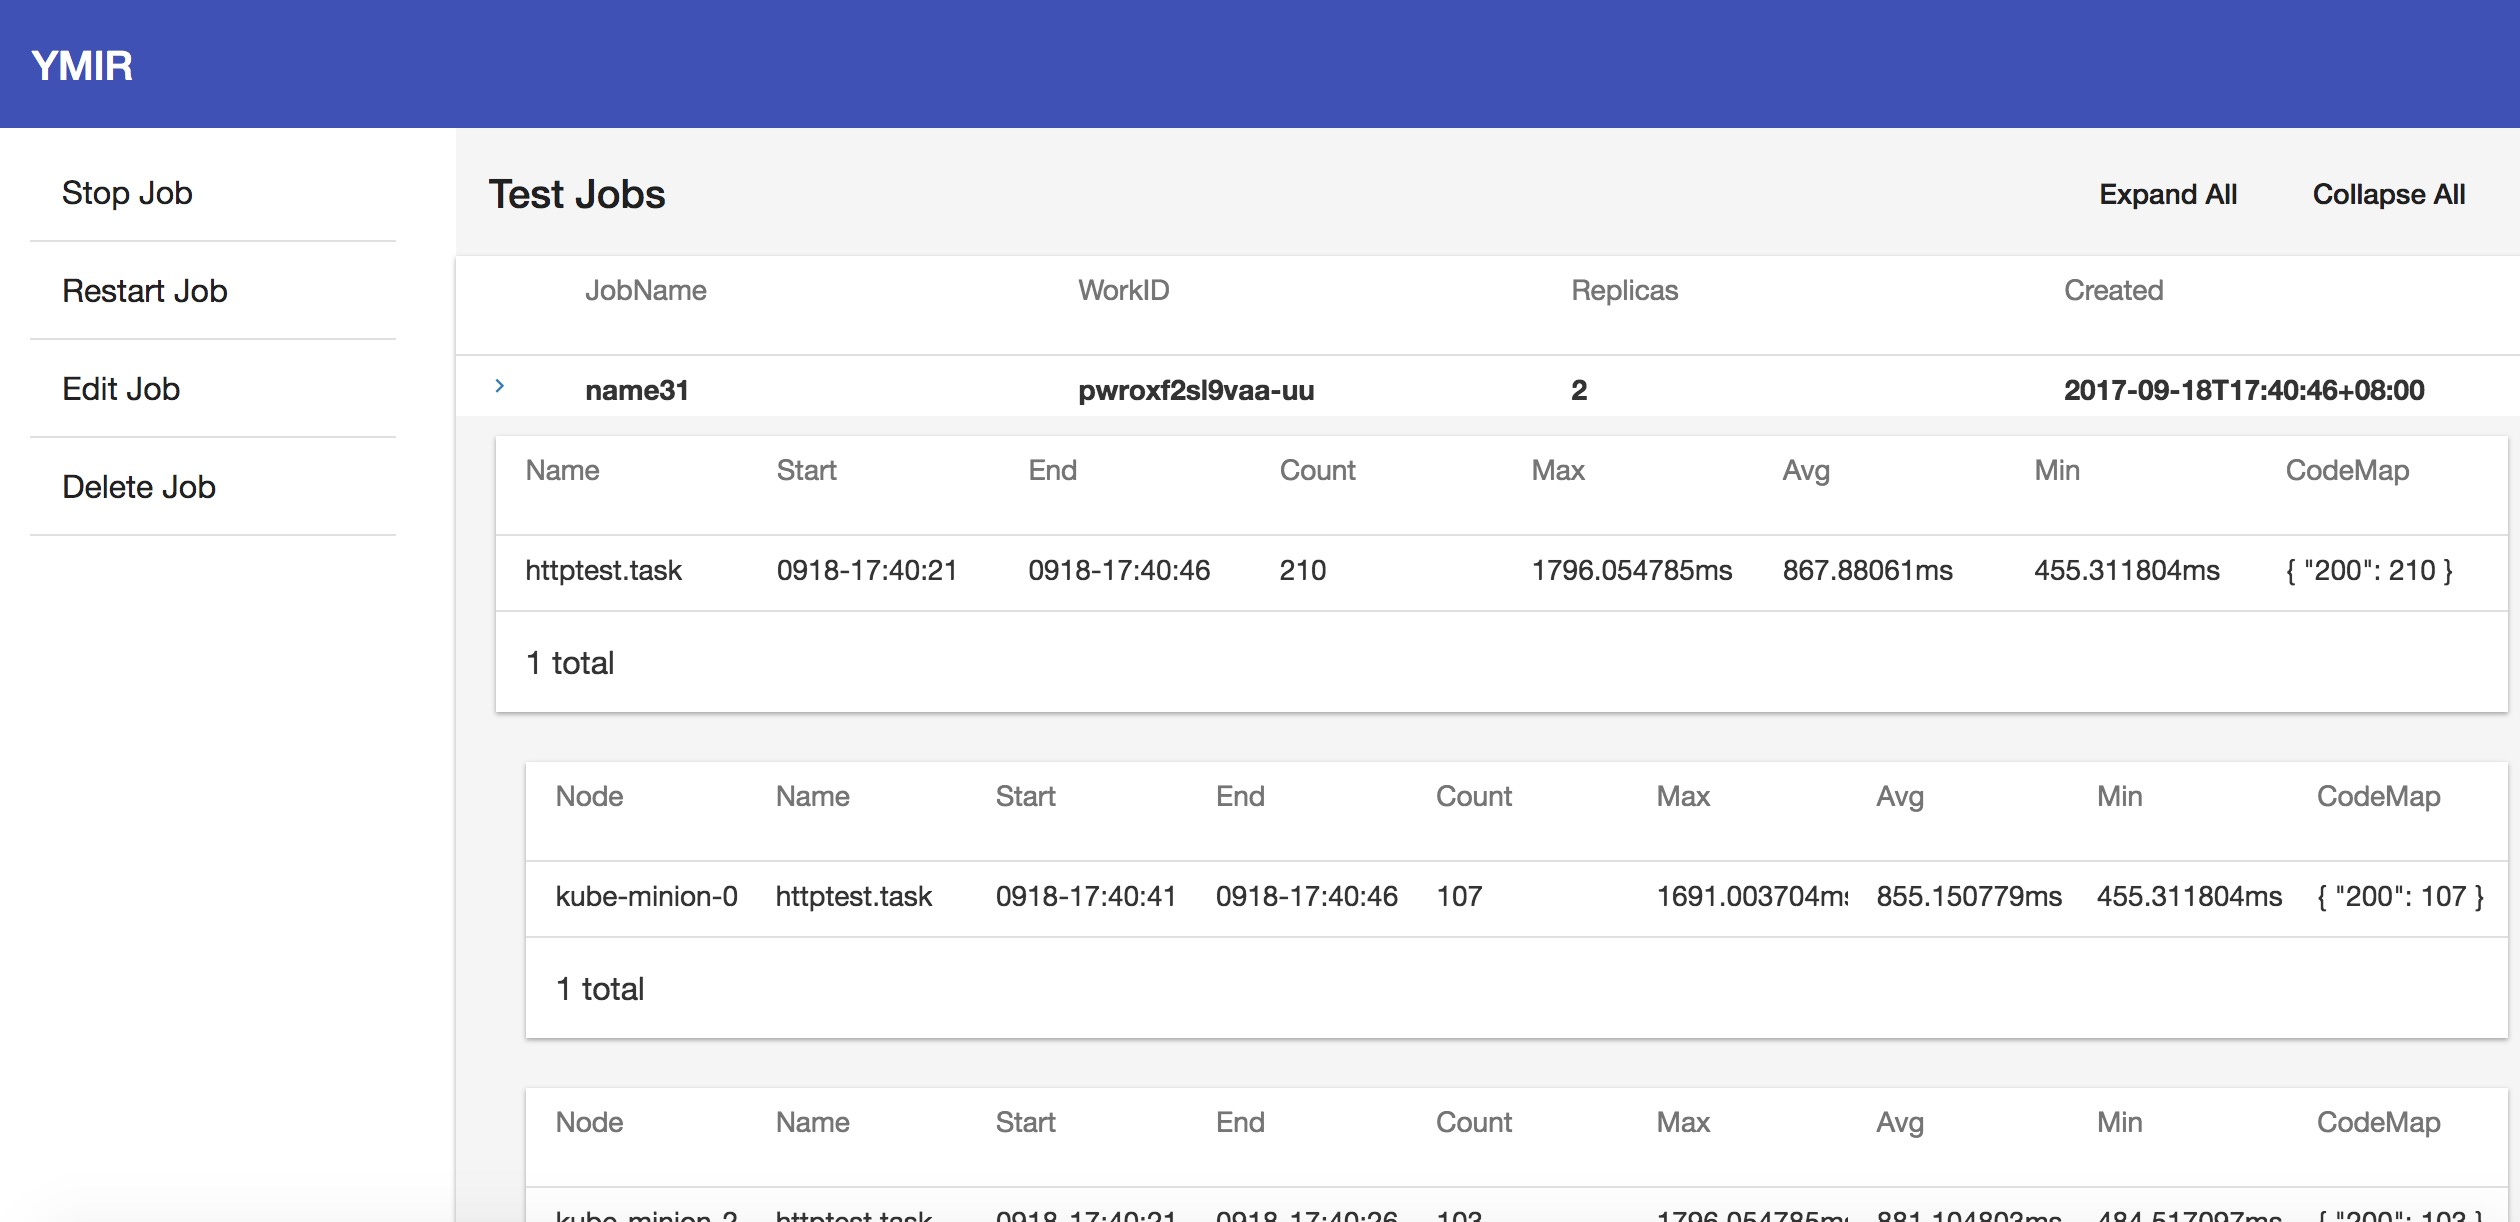
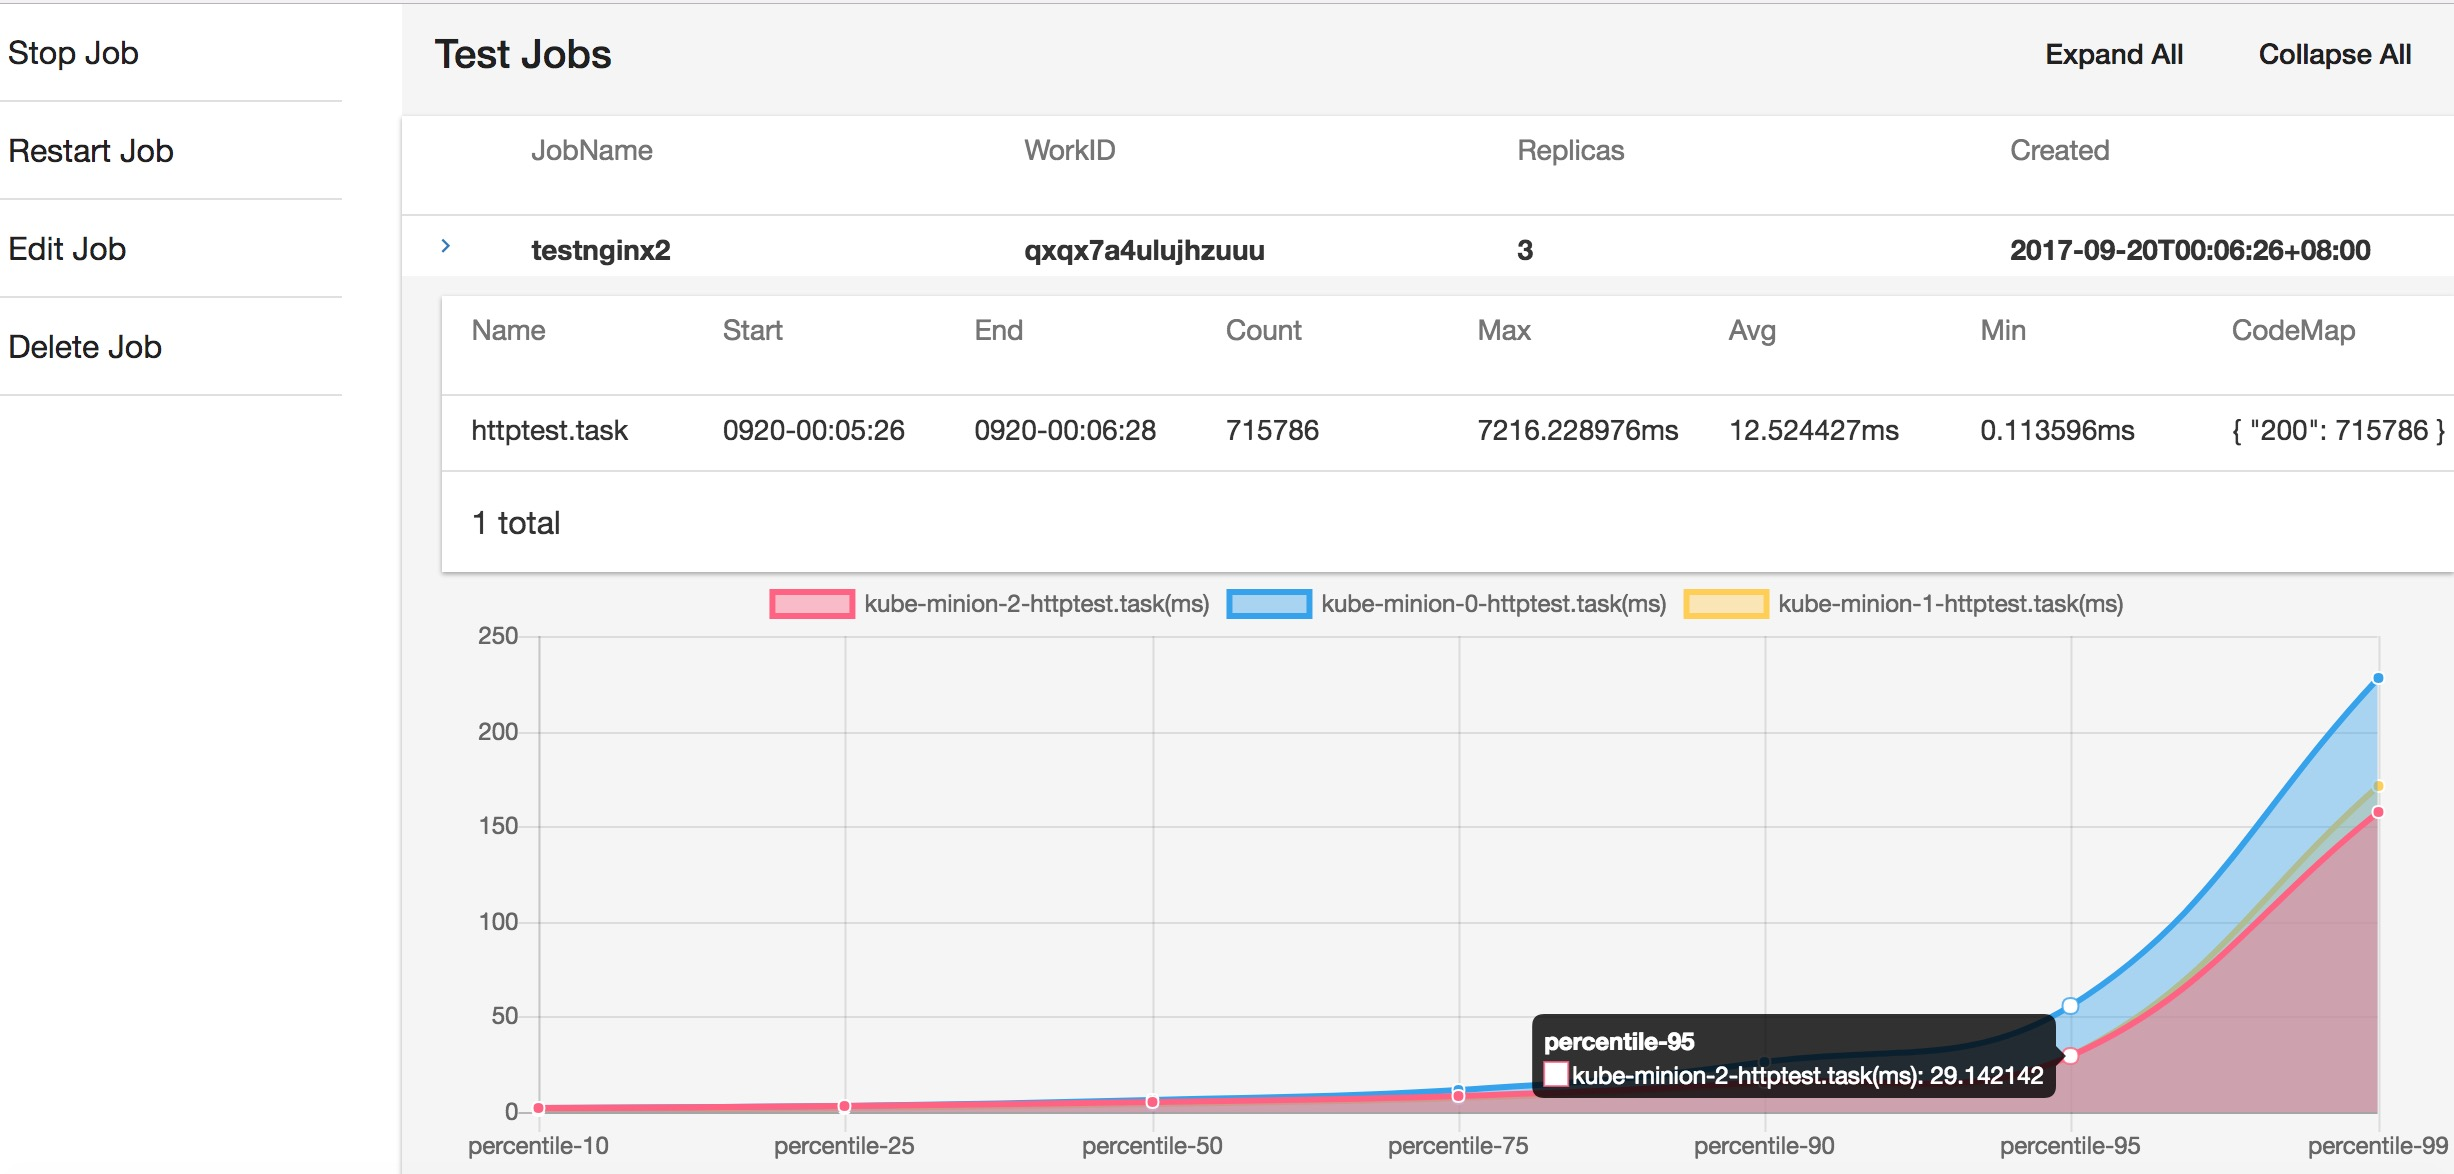
add chart for ymir-ui

diff --git a/dashboard/ymir-ui/src/app/job/job.detail.ts b/dashboard/ymir-ui/src/app/job/job.detail.ts
@@ -15,6 +15,21 @@ export class JobDetailComponent implements OnInit {
   jobid: string;
   works: TWork[] = [];
   expanded: any = {};
+
+  // lineChart
+  // public lineChartData: Array<any> = [
+  //   { data: [65, 59, 80, 81, 56, 55, 40], label: 'Series A' },
+  //   { data: [28, 48, 40, 19, 86, 27, 90], label: 'Series B' },
+  //   { data: [18, 48, 77, 9, 100, 27, 40], label: 'Series C' }
+  // ];
+  public lineChartLabels: string[] = ['percentile-10', 'percentile-25', 'percentile-50', 'percentile-75', 'percentile-90', 'percentile-95', 'percentile-99'];
+  public lineChartOptions: any = {
+    responsive: true
+  };
+  public lineChartLegend: boolean = true;
+  public lineChartType: string = 'line';
+
+
   constructor(private jobService: JobService, private route: ActivatedRoute, private router: Router, ) { }
   ngOnInit(): void {
     this.route.params
@@ -25,6 +40,21 @@ export class JobDetailComponent implements OnInit {
       })
       .subscribe((works: TWork[]) => {
         this.works = works;
+        for (let work of this.works) {
+          work.LineChartData = []
+          for (let instance of work.Instance) {
+            for (let result of instance.Results) {
+              let data = result.Percentile.map((x) => {
+                return x.Cost / 1e6
+              });
+              work.LineChartData.push({
+                data: data,
+                label: instance.NodeName + '-' + result.Name + '(ms)',
+              })
+            }
+          }
+          console.log(work.LineChartData)
+        }
         console.log(this.works)
       });
   }
@@ -52,7 +82,7 @@ export class JobDetailComponent implements OnInit {
   }
 
   getRowHeight(row): number {
-    var h: number = row['Replicas'] * row['Result'].length * 180 + 150
+    var h: number = row['Replicas'] * row['Result'].length * 180 + 450
     // console.log('getDetailHeight', h)
     return h
   }

diff --git a/dashboard/ymir-ui/src/app/job/job.detail.html b/dashboard/ymir-ui/src/app/job/job.detail.html
@@ -68,6 +68,15 @@
                             </ngx-datatable-column>
                         </ngx-datatable>
                     </div>
+
+                    <!-- <div class="row"> -->
+                    <div style="padding-left:20px;">
+                        <!-- <div style="display: block;"> -->
+                        <canvas baseChart width="50" height="15" [datasets]="row.LineChartData" [labels]="lineChartLabels" [options]="lineChartOptions" [legend]="lineChartLegend" [chartType]="lineChartType"></canvas>
+                        <!-- </div> -->
+                    </div>
+                    <!-- </div> -->
+
                     <div *ngFor="let instance of row.Instance" style="padding-left:25px;padding-top:25px;">
                         <ngx-datatable class='material' [rows]='instance.Results' [columnMode]="'force'" [headerHeight]="50" [footerHeight]="50" [scrollbarV]="true">
                             <ngx-datatable-column name="Node">

diff --git a/dashboard/ymir-ui/src/app/app.module.ts b/dashboard/ymir-ui/src/app/app.module.ts
@@ -14,6 +14,9 @@ import { MdButtonModule, MdToolbarModule, MdSidenavModule, MdListModule } from '
 import { MdInputModule, MdCheckboxModule } from '@angular/material';
 import { BrowserAnimationsModule } from '@angular/platform-browser/animations';
 import { MdCardModule } from '@angular/material';
+import { ChartsModule } from 'ng2-charts';
+
+// In your App's module:
 
 @NgModule({
   declarations: [
@@ -36,7 +39,8 @@ import { MdCardModule } from '@angular/material';
     MdListModule,
     MdCardModule,
     NgxDatatableModule,
-    BrowserAnimationsModule
+    BrowserAnimationsModule,
+    ChartsModule
   ],
   providers: [JobService],
   bootstrap: [AppComponent]

diff --git a/dashboard/ymir-ui/src/index.html b/dashboard/ymir-ui/src/index.html
@@ -10,6 +10,7 @@
     <link rel="icon" type="image/x-icon" href="favicon.ico">
     <link rel="stylesheet" href="https://cdn.bootcss.com/bootstrap/3.3.7/css/bootstrap.min.css" integrity="sha384-BVYiiSIFeK1dGmJRAkycuHAHRg32OmUcww7on3RYdg4Va+PmSTsz/K68vbdEjh4u" crossorigin="anonymous">
     <script src="https://cdn.bootcss.com/jquery/1.12.4/jquery.min.js"></script>
+    <script src="https://cdn.bootcss.com/Chart.js/2.6.0/Chart.min.js"></script>
     <script src="https://cdn.bootcss.com/bootstrap/3.3.7/js/bootstrap.min.js" integrity="sha384-Tc5IQib027qvyjSMfHjOMaLkfuWVxZxUPnCJA7l2mCWNIpG9mGCD8wGNIcPD7Txa" crossorigin="anonymous"></script>
 </head>
 

diff --git a/dashboard/ymir-ui/src/app/model/job.ts b/dashboard/ymir-ui/src/app/model/job.ts
@@ -16,6 +16,7 @@ export class TWork {
   Replicas: number;
   Result: TResult[];
   Instance: TWorkI[];
+  LineChartData: Array<any>;
 }
 
 // TWorkInstance in a single node....

diff --git a/taskset/example_http.go b/taskset/example_http.go
@@ -11,6 +11,7 @@ import (
 func init() {
 	task.SetRoutineCount(20)
 	task.Register(task.NewFunc(newhttptest))
+	task.SetRunTime(time.Minute)
 }
 
 // New ....
@@ -29,10 +30,6 @@ func (h *httptest) Name() string {
 }
 func (h *httptest) Weight() int {
 	return 100
-}
-
-func (h *httptest) RunTime() time.Duration {
-	return 0
 }
 
 func (h *httptest) Tasks() []task.TTask {

diff --git a/taskset/example_hello.go b/taskset/example_hello.go
@@ -28,10 +28,6 @@ func (h *hello) Weight() int {
 	return 50
 }
 
-func (h *hello) RunTime() time.Duration {
-	return 0
-}
-
 func (h *hello) Tasks() []task.TTask {
 	return []task.TTask{&hellotask{}}
 }

diff --git a/README.md b/README.md
@@ -53,6 +53,7 @@ func SetRoutineCount(c int) {
 ![Alt text](/demo/demo-0.png)
 ![Alt text](/demo/demo-1.png)
 ![Alt text](/demo/demo-2.png)
+![Alt text](/demo/demo-3.png)
 
 ## RoadMap
 - datamodel: done
